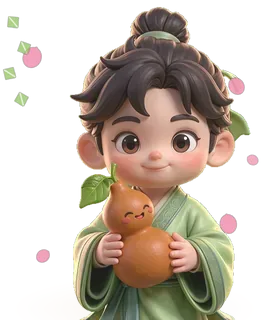
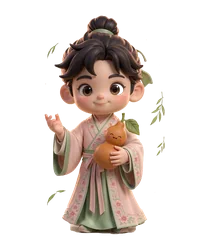
v96-v97: 页眉植物补全(双叠加层+渐隐遮罩,窄屏隐藏) + 四季皮肤换成可灵真换装素材(待机/动作同源零跳变,春截全身段,冬换全身重做版)

diff --git a/common.css b/common.css
@@ -62,6 +62,13 @@ header.top-hero::after{content:"";position:absolute;left:0;right:0;bottom:0;heig
 /* 响应式 */
 .hd-bg{position:absolute;inset:0;z-index:0;background:url("assets/header-banner.webp") center/100% 100% no-repeat;opacity:.97;pointer-events:none}
 .hd-bg::after{content:"";position:absolute;inset:0;background:linear-gradient(115deg,var(--hd-1),var(--hd-2) 52%,var(--hd-3));opacity:.5}
+/* v96: 页眉植物补画——从原图角落按原始比例叠加，mix-blend-mode 融入，渐隐遮罩消接缝；构图其余不变 */
+.hd-plant{position:absolute;bottom:0;width:300px;height:100%;z-index:1;pointer-events:none;
+  background-image:url("assets/header-banner.webp");background-repeat:no-repeat;mix-blend-mode:multiply}
+.hd-plant-l{left:0;background-position:left bottom;background-size:auto 100%;
+  -webkit-mask-image:linear-gradient(90deg,#000 50%,transparent 100%);mask-image:linear-gradient(90deg,#000 50%,transparent 100%)}
+.hd-plant-r{right:0;background-position:right bottom;background-size:auto 100%;
+  -webkit-mask-image:linear-gradient(270deg,#000 50%,transparent 100%);mask-image:linear-gradient(270deg,#000 50%,transparent 100%)}
 /* 天头版式：左 logo 为视线起点，右侧标题区（slogan + 药童），两端对齐、中间留白 */
 .hd-mid{flex:0 1 auto;min-width:0;text-align:right;z-index:1;padding:0 10px;margin-left:auto}
 .hd-slogan{font-family:"Ma Shan Zheng",cursive;font-size:30px;line-height:1.18;color:var(--red);letter-spacing:2px;text-shadow:0 1px 0 rgba(251,243,228,.55)}
@@ -71,7 +78,7 @@ header.top-hero::after{content:"";position:absolute;left:0;right:0;bottom:0;heig
 .hd-right{flex:none;z-index:1;display:flex;align-items:center;justify-content:center}
 .hd-right img{height:165px;width:auto;display:block;filter:drop-shadow(0 10px 14px rgba(43,43,38,.22))}
 @media(max-width:1000px){.seal-stamp{width:180px;height:180px}.hd-right img{height:140px}.hd-slogan{font-size:26px}}
-@media(max-width:720px){.hd-inner{padding:18px 12px 16px}.seal-stamp{width:150px;height:150px}.hd-right img{height:118px}.hd-slogan{font-size:22px}.hd-slogan-sub{font-size:12px}.hd-bg{background-size:auto 100%}}
+@media(max-width:720px){.hd-inner{padding:18px 12px 16px}.seal-stamp{width:150px;height:150px}.hd-right img{height:118px}.hd-slogan{font-size:22px}.hd-slogan-sub{font-size:12px}.hd-bg{background-size:auto 100%}.hd-plant{display:none}}
 @media(max-width:560px){.seal-stamp{width:120px;height:120px}.hd-right{order:2;margin-left:auto}.hd-right img{height:96px}.hd-slogan{font-size:19px}.hd-mid{order:3;flex-basis:100%;margin-left:0;text-align:center;margin-top:4px}}
 
 /* ===== 导航 ===== */

diff --git a/constitution.html b/constitution.html
@@ -12,6 +12,8 @@
 <body data-page="constitution">
 <header class="top-hero">
  <div class="hd-bg" aria-hidden="true"></div>
+ <div class="hd-plant hd-plant-l" aria-hidden="true"></div>
+ <div class="hd-plant hd-plant-r" aria-hidden="true"></div>
  <div class="hd-inner">
   <a href="index.html" class="hd-left" aria-label="返回首页">
     <div class="seal-stamp"><img src="assets/logo-ink.webp" alt="本草智答 · 浓墨本草错落排布、朱红智答小印与淡金螭龙衔尾飞白圆相" width="220" height="220" decoding="async" fetchpriority="high"></div>

diff --git a/acupoint.html b/acupoint.html
@@ -12,6 +12,8 @@
 <body data-page="acupoint">
 <header class="top-hero">
  <div class="hd-bg" aria-hidden="true"></div>
+ <div class="hd-plant hd-plant-l" aria-hidden="true"></div>
+ <div class="hd-plant hd-plant-r" aria-hidden="true"></div>
  <div class="hd-inner">
   <a href="index.html" class="hd-left" aria-label="返回首页">
     <div class="seal-stamp"><img src="assets/logo-ink.webp" alt="本草智答 · 浓墨本草错落排布、朱红智答小印与淡金螭龙衔尾飞白圆相" width="220" height="220" decoding="async" fetchpriority="high"></div>

diff --git a/checkin.html b/checkin.html
@@ -12,6 +12,8 @@
 <body data-page="checkin">
 <header class="top-hero">
  <div class="hd-bg" aria-hidden="true"></div>
+ <div class="hd-plant hd-plant-l" aria-hidden="true"></div>
+ <div class="hd-plant hd-plant-r" aria-hidden="true"></div>
  <div class="hd-inner">
   <a href="index.html" class="hd-left" aria-label="返回首页">
     <div class="seal-stamp"><img src="assets/logo-ink.webp" alt="本草智答 · 浓墨本草错落排布、朱红智答小印与淡金螭龙衔尾飞白圆相" width="220" height="220" decoding="async" fetchpriority="high"></div>

diff --git a/formula.html b/formula.html
@@ -12,6 +12,8 @@
 <body data-page="formula">
 <header class="top-hero">
  <div class="hd-bg" aria-hidden="true"></div>
+ <div class="hd-plant hd-plant-l" aria-hidden="true"></div>
+ <div class="hd-plant hd-plant-r" aria-hidden="true"></div>
  <div class="hd-inner">
   <a href="index.html" class="hd-left" aria-label="返回首页">
     <div class="seal-stamp"><img src="assets/logo-ink.webp" alt="本草智答 · 浓墨本草错落排布、朱红智答小印与淡金螭龙衔尾飞白圆相" width="220" height="220" decoding="async" fetchpriority="high"></div>

diff --git a/materia.html b/materia.html
@@ -12,6 +12,8 @@
 <body data-page="materia">
 <header class="top-hero">
  <div class="hd-bg" aria-hidden="true"></div>
+ <div class="hd-plant hd-plant-l" aria-hidden="true"></div>
+ <div class="hd-plant hd-plant-r" aria-hidden="true"></div>
  <div class="hd-inner">
   <a href="index.html" class="hd-left" aria-label="返回首页">
     <div class="seal-stamp"><img src="assets/logo-ink.webp" alt="本草智答 · 浓墨本草错落排布、朱红智答小印与淡金螭龙衔尾飞白圆相" width="220" height="220" decoding="async" fetchpriority="high"></div>

diff --git a/seasons.html b/seasons.html
@@ -12,6 +12,8 @@
 <body data-page="seasons">
 <header class="top-hero">
  <div class="hd-bg" aria-hidden="true"></div>
+ <div class="hd-plant hd-plant-l" aria-hidden="true"></div>
+ <div class="hd-plant hd-plant-r" aria-hidden="true"></div>
  <div class="hd-inner">
   <a href="index.html" class="hd-left" aria-label="返回首页">
     <div class="seal-stamp"><img src="assets/logo-ink.webp" alt="本草智答 · 浓墨本草错落排布、朱红智答小印与淡金螭龙衔尾飞白圆相" width="220" height="220" decoding="async" fetchpriority="high"></div>

diff --git a/album.html b/album.html
@@ -12,6 +12,8 @@
 <body data-page="album">
 <header class="top-hero">
  <div class="hd-bg" aria-hidden="true"></div>
+ <div class="hd-plant hd-plant-l" aria-hidden="true"></div>
+ <div class="hd-plant hd-plant-r" aria-hidden="true"></div>
  <div class="hd-inner">
   <a href="index.html" class="hd-left" aria-label="返回首页">
     <div class="seal-stamp"><img src="assets/logo-ink.webp" alt="本草智答 · 浓墨本草错落排布、朱红智答小印与淡金螭龙衔尾飞白圆相" width="220" height="220" decoding="async" fetchpriority="high"></div>

diff --git a/chat.html b/chat.html
@@ -12,6 +12,8 @@
 <body data-page="chat">
 <header class="top-hero">
  <div class="hd-bg" aria-hidden="true"></div>
+ <div class="hd-plant hd-plant-l" aria-hidden="true"></div>
+ <div class="hd-plant hd-plant-r" aria-hidden="true"></div>
  <div class="hd-inner">
   <a href="index.html" class="hd-left" aria-label="返回首页">
     <div class="seal-stamp"><img src="assets/logo-ink.webp" alt="本草智答 · 浓墨本草错落排布、朱红智答小印与淡金螭龙衔尾飞白圆相" width="220" height="220" decoding="async" fetchpriority="high"></div>

diff --git a/game.html b/game.html
@@ -12,6 +12,8 @@
 <body data-page="game">
 <header class="top-hero">
  <div class="hd-bg" aria-hidden="true"></div>
+ <div class="hd-plant hd-plant-l" aria-hidden="true"></div>
+ <div class="hd-plant hd-plant-r" aria-hidden="true"></div>
  <div class="hd-inner">
   <a href="index.html" class="hd-left" aria-label="返回首页">
     <div class="seal-stamp"><img src="assets/logo-ink.webp" alt="本草智答 · 浓墨本草错落排布、朱红智答小印与淡金螭龙衔尾飞白圆相" width="220" height="220" decoding="async" fetchpriority="high"></div>

diff --git a/herb.html b/herb.html
@@ -12,6 +12,8 @@
 <body data-page="herb">
 <header class="top-hero">
  <div class="hd-bg" aria-hidden="true"></div>
+ <div class="hd-plant hd-plant-l" aria-hidden="true"></div>
+ <div class="hd-plant hd-plant-r" aria-hidden="true"></div>
  <div class="hd-inner">
   <a href="index.html" class="hd-left" aria-label="返回首页">
     <div class="seal-stamp"><img src="assets/logo-ink.webp" alt="本草智答 · 浓墨本草错落排布、朱红智答小印与淡金螭龙衔尾飞白圆相" width="220" height="220" decoding="async" fetchpriority="high"></div>

diff --git a/index.html b/index.html
@@ -12,6 +12,8 @@
 <body data-page="home">
 <header class="top-hero">
  <div class="hd-bg" aria-hidden="true"></div>
+ <div class="hd-plant hd-plant-l" aria-hidden="true"></div>
+ <div class="hd-plant hd-plant-r" aria-hidden="true"></div>
  <div class="hd-inner">
   <a href="index.html" class="hd-left" aria-label="返回首页">
     <div class="seal-stamp"><img src="assets/logo-ink.webp" alt="本草智答 · 浓墨本草错落排布、朱红智答小印与淡金螭龙衔尾飞白圆相" width="220" height="220" decoding="async" fetchpriority="high"></div>
